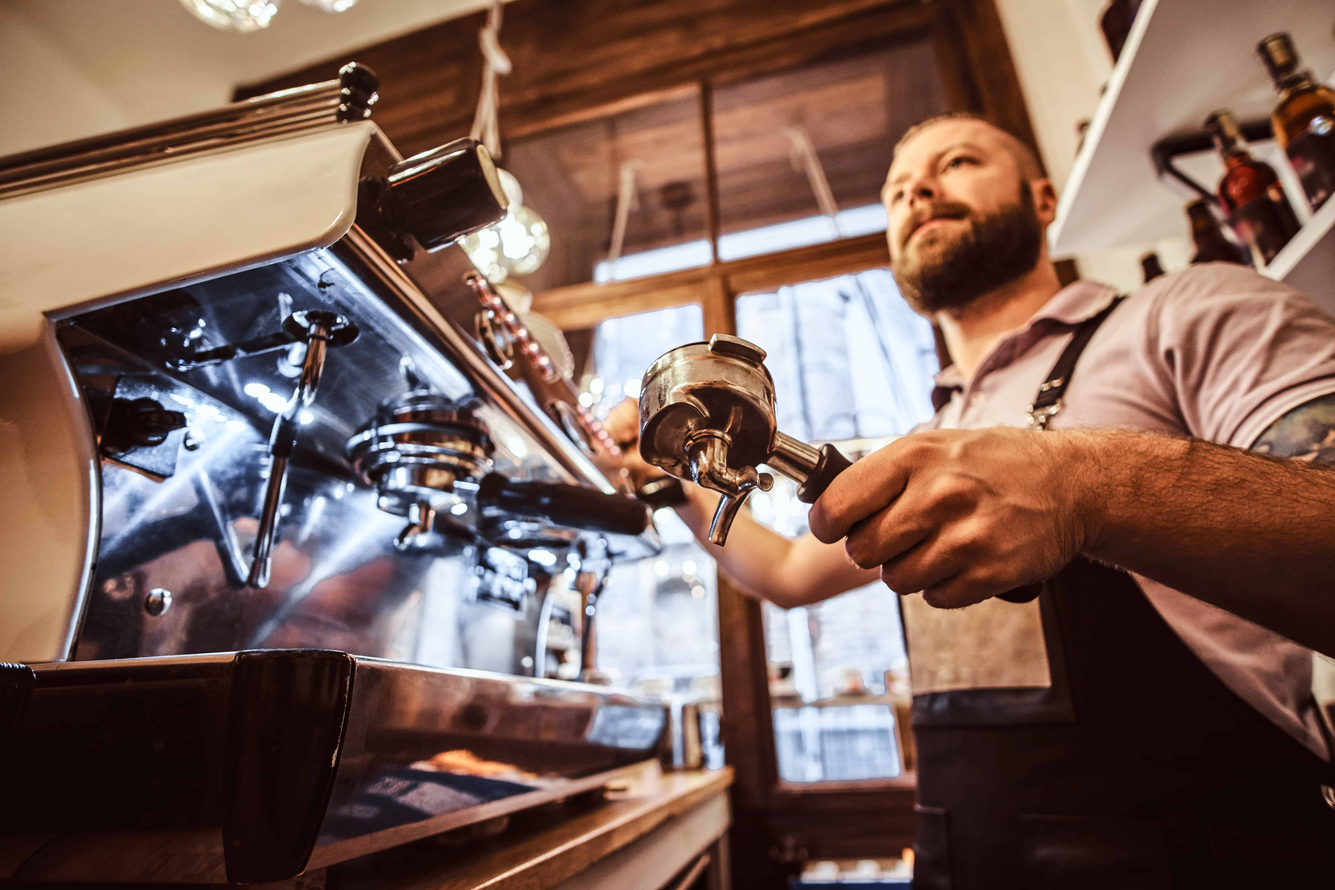
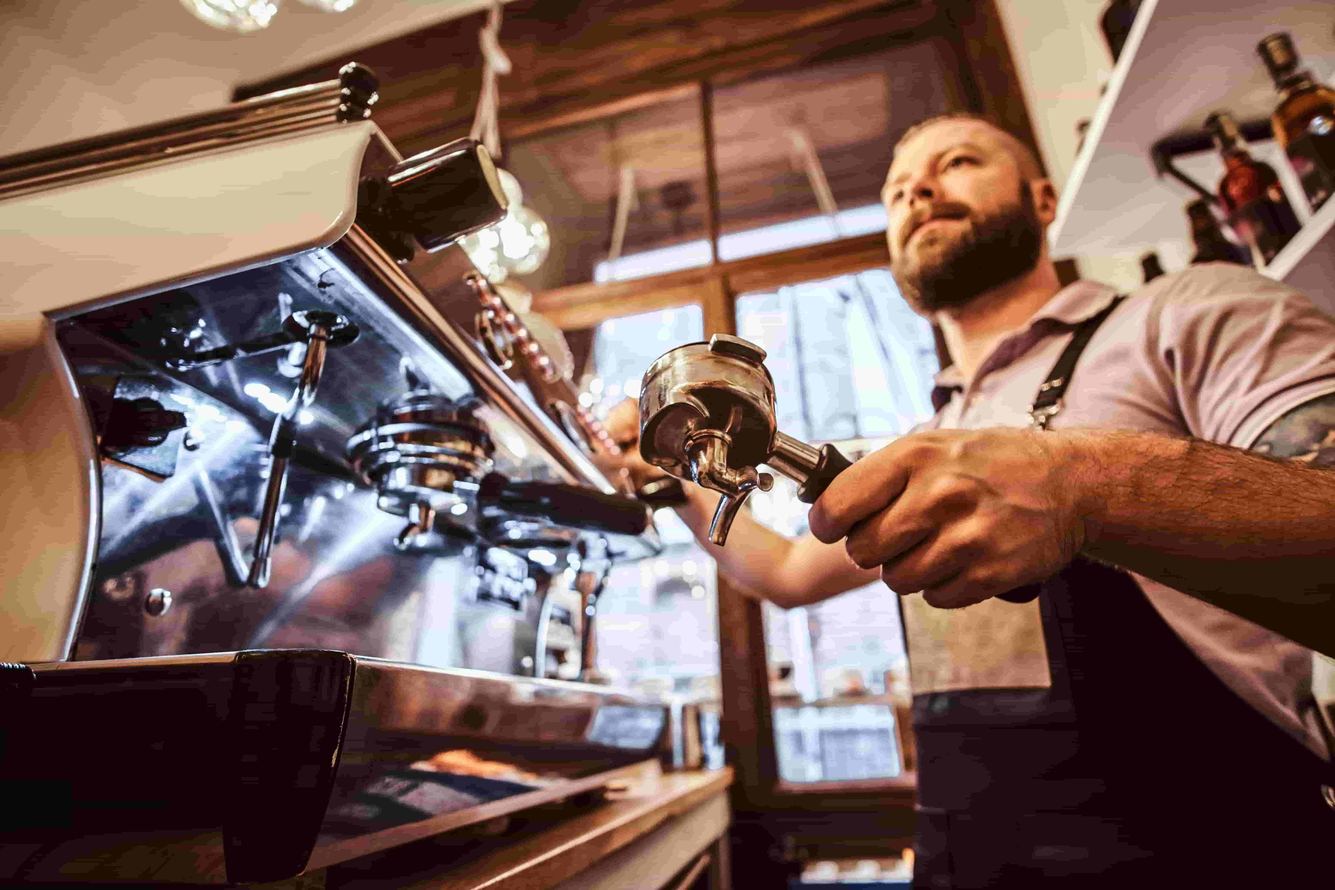
V4.5 - Optimized about images.

diff --git a/index.html b/index.html
@@ -10,13 +10,13 @@
   <meta name="viewport" content="width=device-width, initial-scale=1.0">
 
   <!-- stylesheet(s) *******************************************-->
-  <link rel="stylesheet" href="/css/css_general.css">
-  <link rel="stylesheet" href="/css/css_index.css">
-  <link rel="stylesheet" href="/css/css_indexMediaQueries.css">
+  <link defer rel="stylesheet" href="/css/css_general.css">
+  <link defer rel="stylesheet" href="/css/css_index.css">
+  <link defer rel="stylesheet" href="/css/css_indexMediaQueries.css">
   <!-- imported font(s) -->
-  <link rel="preconnect" href="https://fonts.googleapis.com">
-  <link rel="preconnect" href="https://fonts.gstatic.com" crossorigin>
-  <link href="https://fonts.googleapis.com/css2?family=Aleo:ital,wght@0,100..900;1,100..900&display=swap"
+  <link defer rel="preconnect" href="https://fonts.googleapis.com">
+  <link defer rel="preconnect" href="https://fonts.gstatic.com" crossorigin>
+  <link defer href="https://fonts.googleapis.com/css2?family=Aleo:ital,wght@0,100..900;1,100..900&display=swap"
     rel="stylesheet">
 
   <!-- javascript(s) *******************************************-->
@@ -114,7 +114,7 @@
         <!-- slide -->
         <slide-coffee class="fadeAnnimation">
           <container-filter id="darkFilter">
-            <img id="slideImage" src='/images/images_coffee/coffee_6.jpg' alt="coffee">
+            <img class="fadeAnnimation" id="slideImage" src='/images/images_coffee/coffee_6.jpg' alt="coffee">
             <discount-container>
               <p class="aleo-bold center">99% off</p>
             </discount-container>

diff --git a/htmlJs/htmlJs_index.js b/htmlJs/htmlJs_index.js
@@ -45,7 +45,7 @@ function index_displaySlide(index) {
   let alt = new_img.alt;
   prev_img.src = img;
   prev_img.alt = alt;
-  //Getting the button
+  //Getting the button and putting in the new coffee
   document.getElementById("slideButton").onclick = function () {general_displayCard(new_img)};
 }
 /**************************************************************/
